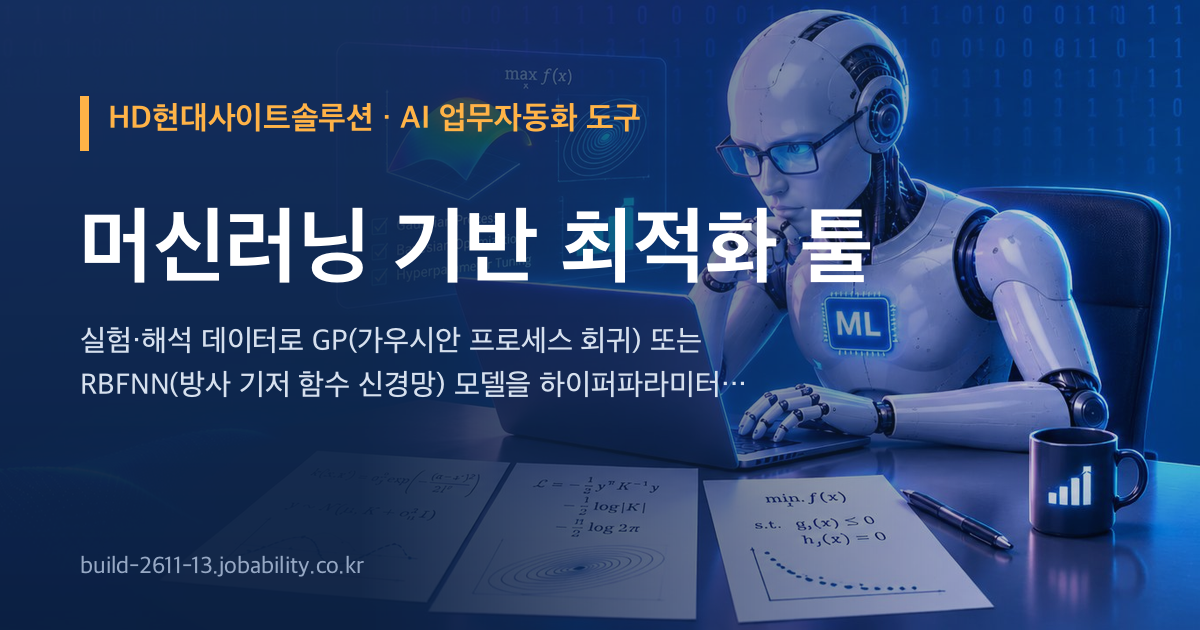
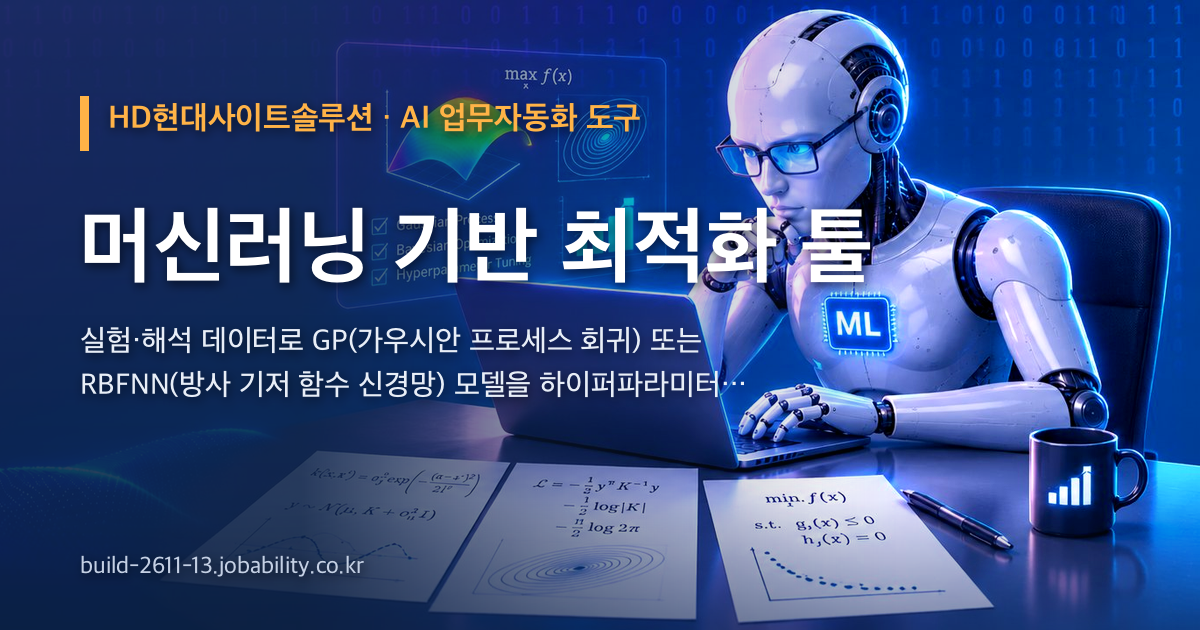
공유 그림 다시(사진 또렷하게) · 판 2026-11-13.12

diff --git a/index.html b/index.html
@@ -12,8 +12,8 @@
 <meta property="og:title" content="HD현대사이트솔루션 · 머신러닝 기반 최적화 툴">
 <meta property="og:description" content="실험·해석 데이터로 GP(가우시안 프로세스 회귀) 또는 RBFNN(방사 기저 함수 신경망) 모델을 하이퍼파라미터 조합마다 만들어 검증 R²로 비교·선정하고, 고른 모델로 Grid Search 를 돌려 최적 설계조건을 찾고, 두 인자를 골라 3D 반응 곡면을 돌려 보는 브라우저 도구입니다">
 <meta property="og:url" content="https://build-2611-13.jobability.co.kr/">
-<meta property="og:image" content="https://build-2611-13.jobability.co.kr/og-image.png">
-<meta property="og:image:secure_url" content="https://build-2611-13.jobability.co.kr/og-image.png">
+<meta property="og:image" content="https://build-2611-13.jobability.co.kr/og-image.png?v=2">
+<meta property="og:image:secure_url" content="https://build-2611-13.jobability.co.kr/og-image.png?v=2">
 <meta property="og:image:type" content="image/png">
 <meta property="og:image:width" content="1200">
 <meta property="og:image:height" content="630">
@@ -22,7 +22,7 @@
 <meta name="twitter:card" content="summary_large_image">
 <meta name="twitter:title" content="HD현대사이트솔루션 · 머신러닝 기반 최적화 툴">
 <meta name="twitter:description" content="실험·해석 데이터로 GP(가우시안 프로세스 회귀) 또는 RBFNN(방사 기저 함수 신경망) 모델을 하이퍼파라미터 조합마다 만들어 검증 R²로 비교·선정하고, 고른 모델로 Grid Search 를 돌려 최적 설계조건을 찾고, 두 인자를 골라 3D 반응 곡면을 돌려 보는 브라우저 도구입니다">
-<meta name="twitter:image" content="https://build-2611-13.jobability.co.kr/og-image.png">
+<meta name="twitter:image" content="https://build-2611-13.jobability.co.kr/og-image.png?v=2">
 <!-- /seo-kit -->
 <meta name="description" content="실험·해석 데이터로 GP(가우시안 프로세스 회귀) 또는 RBFNN(방사 기저 함수 신경망) 모델을 하이퍼파라미터 조합마다 만들어 검증 R²로 비교·선정하고, 고른 모델로 Grid Search 를 돌려 최적 설계조건을 찾고, 두 인자를 골라 3D 반응 곡면을 돌려 보는 브라우저 도구입니다.">
 <link rel="icon" href="favicon.svg" type="image/svg+xml">
@@ -30,9 +30,9 @@
 <link rel="stylesheet" href="css/app.css">
 <!-- auth-kit: 로그인 전에는 도구 화면을 감춘다(js/auth.js 가 판정 뒤 푼다) -->
 <script>document.documentElement.classList.add('auth-lock')</script>
-<link rel="stylesheet" href="css/auth.css?v=2026-11-13.11">
-<link rel="stylesheet" href="css/board.css?v=2026-11-13.11">
-<link rel="stylesheet" href="css/kit-build.css?v=2026-11-13.11">
+<link rel="stylesheet" href="css/auth.css?v=2026-11-13.12">
+<link rel="stylesheet" href="css/board.css?v=2026-11-13.12">
+<link rel="stylesheet" href="css/kit-build.css?v=2026-11-13.12">
 <!-- /auth-kit -->
 </head>
 <body>
@@ -217,11 +217,11 @@
 <script src="js/gpr.js"></script>
 <script src="js/app.js"></script>
 <!-- auth-kit: 로그인 · 사용 신청 · 승인 · 게시판(키트 정본 data10-00/kit/auth, 적용 build-2611-00/tools/kit) -->
-<script src="vendor/supabase.js?v=2026-11-13.11"></script>
-<script src="js/auth-config.js?v=2026-11-13.11"></script>
-<script src="js/kit-build.js?v=2026-11-13.11"></script>
-<script src="js/board.js?v=2026-11-13.11"></script>
-<script src="js/auth.js?v=2026-11-13.11"></script>
+<script src="vendor/supabase.js?v=2026-11-13.12"></script>
+<script src="js/auth-config.js?v=2026-11-13.12"></script>
+<script src="js/kit-build.js?v=2026-11-13.12"></script>
+<script src="js/board.js?v=2026-11-13.12"></script>
+<script src="js/auth.js?v=2026-11-13.12"></script>
 <!-- /auth-kit -->
 </body>
 </html>

diff --git a/guide.html b/guide.html
@@ -12,8 +12,8 @@
 <meta property="og:title" content="사용법 — 머신러닝 기반 최적화 툴">
 <meta property="og:description" content="실험·해석 데이터로 GP(가우시안 프로세스 회귀) 또는 RBFNN(방사 기저 함수 신경망) 모델을 하이퍼파라미터 조합마다 만들어 검증 R²로 비교·선정하고, 고른 모델로 Grid Search 를 돌려 최적 설계조건을 찾고, 두 인자를 골라 3D 반응 곡면을 돌려 보는 브라우저 도구입니다">
 <meta property="og:url" content="https://build-2611-13.jobability.co.kr/guide.html">
-<meta property="og:image" content="https://build-2611-13.jobability.co.kr/og-image.png">
-<meta property="og:image:secure_url" content="https://build-2611-13.jobability.co.kr/og-image.png">
+<meta property="og:image" content="https://build-2611-13.jobability.co.kr/og-image.png?v=2">
+<meta property="og:image:secure_url" content="https://build-2611-13.jobability.co.kr/og-image.png?v=2">
 <meta property="og:image:type" content="image/png">
 <meta property="og:image:width" content="1200">
 <meta property="og:image:height" content="630">
@@ -22,7 +22,7 @@
 <meta name="twitter:card" content="summary_large_image">
 <meta name="twitter:title" content="사용법 — 머신러닝 기반 최적화 툴">
 <meta name="twitter:description" content="실험·해석 데이터로 GP(가우시안 프로세스 회귀) 또는 RBFNN(방사 기저 함수 신경망) 모델을 하이퍼파라미터 조합마다 만들어 검증 R²로 비교·선정하고, 고른 모델로 Grid Search 를 돌려 최적 설계조건을 찾고, 두 인자를 골라 3D 반응 곡면을 돌려 보는 브라우저 도구입니다">
-<meta name="twitter:image" content="https://build-2611-13.jobability.co.kr/og-image.png">
+<meta name="twitter:image" content="https://build-2611-13.jobability.co.kr/og-image.png?v=2">
 <!-- /seo-kit -->
 <link rel="icon" href="favicon.svg" type="image/svg+xml">
 <link rel="stylesheet" href="css/style.css">

diff --git a/plan.html b/plan.html
@@ -12,8 +12,8 @@
 <meta property="og:title" content="기획서 — 머신러닝 기반 최적화 툴">
 <meta property="og:description" content="실험·해석 데이터로 GP(가우시안 프로세스 회귀) 또는 RBFNN(방사 기저 함수 신경망) 모델을 하이퍼파라미터 조합마다 만들어 검증 R²로 비교·선정하고, 고른 모델로 Grid Search 를 돌려 최적 설계조건을 찾고, 두 인자를 골라 3D 반응 곡면을 돌려 보는 브라우저 도구입니다">
 <meta property="og:url" content="https://build-2611-13.jobability.co.kr/plan.html">
-<meta property="og:image" content="https://build-2611-13.jobability.co.kr/og-image.png">
-<meta property="og:image:secure_url" content="https://build-2611-13.jobability.co.kr/og-image.png">
+<meta property="og:image" content="https://build-2611-13.jobability.co.kr/og-image.png?v=2">
+<meta property="og:image:secure_url" content="https://build-2611-13.jobability.co.kr/og-image.png?v=2">
 <meta property="og:image:type" content="image/png">
 <meta property="og:image:width" content="1200">
 <meta property="og:image:height" content="630">
@@ -22,7 +22,7 @@
 <meta name="twitter:card" content="summary_large_image">
 <meta name="twitter:title" content="기획서 — 머신러닝 기반 최적화 툴">
 <meta name="twitter:description" content="실험·해석 데이터로 GP(가우시안 프로세스 회귀) 또는 RBFNN(방사 기저 함수 신경망) 모델을 하이퍼파라미터 조합마다 만들어 검증 R²로 비교·선정하고, 고른 모델로 Grid Search 를 돌려 최적 설계조건을 찾고, 두 인자를 골라 3D 반응 곡면을 돌려 보는 브라우저 도구입니다">
-<meta name="twitter:image" content="https://build-2611-13.jobability.co.kr/og-image.png">
+<meta name="twitter:image" content="https://build-2611-13.jobability.co.kr/og-image.png?v=2">
 <!-- /seo-kit -->
 <link rel="icon" href="favicon.svg" type="image/svg+xml">
 <link rel="stylesheet" href="css/style.css">

diff --git a/report.html b/report.html
@@ -12,8 +12,8 @@
 <meta property="og:title" content="평가보고서 — 머신러닝 기반 최적화 툴">
 <meta property="og:description" content="머신러닝 기반 최적화 툴 점검 · 평가보고서(2026-11-13) — 사이트 점검, 기능과 시험, 인계 준비, 판 이력, 한계.">
 <meta property="og:url" content="https://build-2611-13.jobability.co.kr/report.html">
-<meta property="og:image" content="https://build-2611-13.jobability.co.kr/og-image.png">
-<meta property="og:image:secure_url" content="https://build-2611-13.jobability.co.kr/og-image.png">
+<meta property="og:image" content="https://build-2611-13.jobability.co.kr/og-image.png?v=2">
+<meta property="og:image:secure_url" content="https://build-2611-13.jobability.co.kr/og-image.png?v=2">
 <meta property="og:image:type" content="image/png">
 <meta property="og:image:width" content="1200">
 <meta property="og:image:height" content="630">
@@ -22,7 +22,7 @@
 <meta name="twitter:card" content="summary_large_image">
 <meta name="twitter:title" content="평가보고서 — 머신러닝 기반 최적화 툴">
 <meta name="twitter:description" content="머신러닝 기반 최적화 툴 점검 · 평가보고서(2026-11-13) — 사이트 점검, 기능과 시험, 인계 준비, 판 이력, 한계.">
-<meta name="twitter:image" content="https://build-2611-13.jobability.co.kr/og-image.png">
+<meta name="twitter:image" content="https://build-2611-13.jobability.co.kr/og-image.png?v=2">
 <!-- /seo-kit -->
 <meta name="description" content="머신러닝 기반 최적화 툴 점검 · 평가보고서(2026-11-13) — 사이트 점검, 기능과 시험, 인계 준비, 판 이력, 한계.">
 <link rel="icon" href="favicon.svg" type="image/svg+xml">
